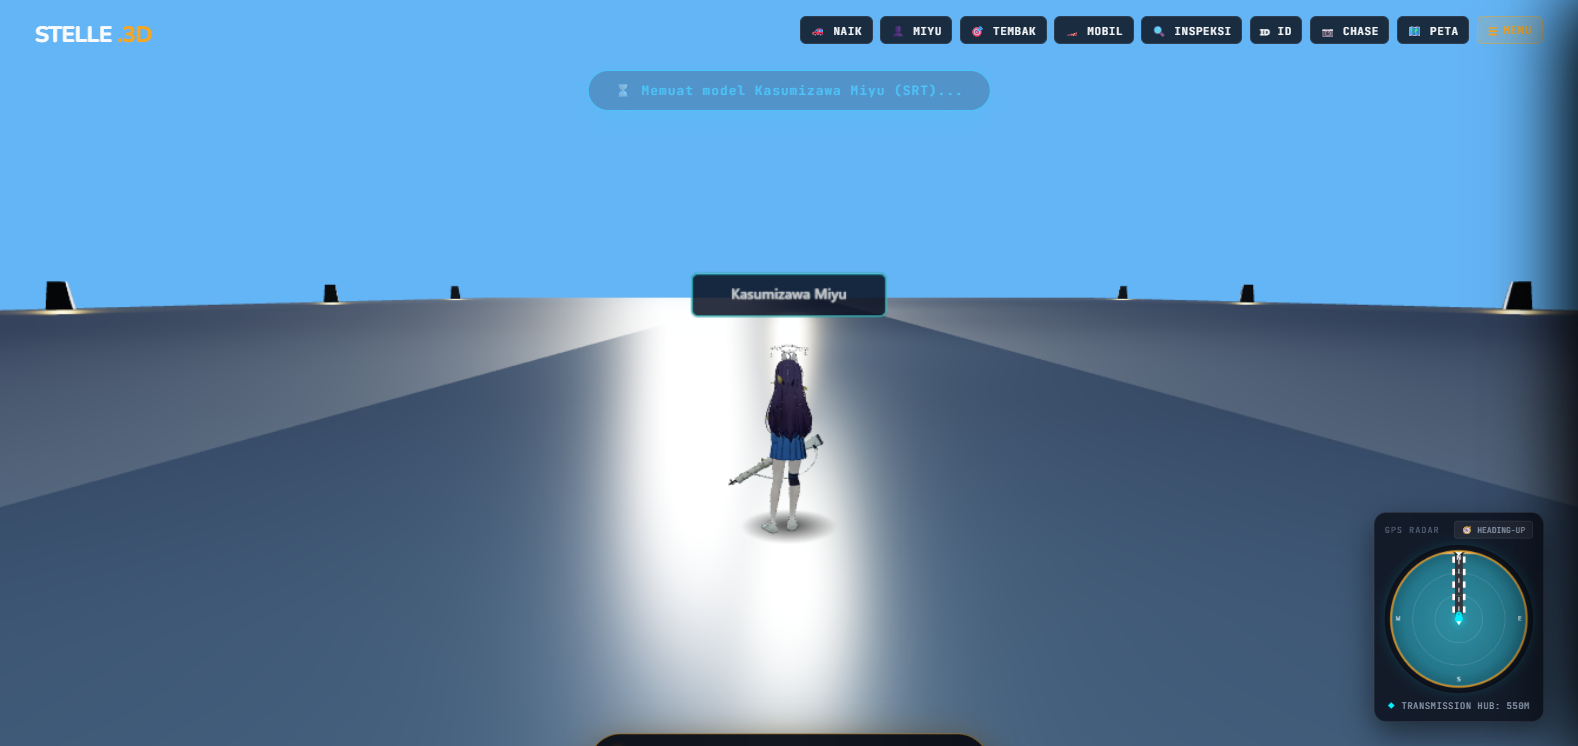
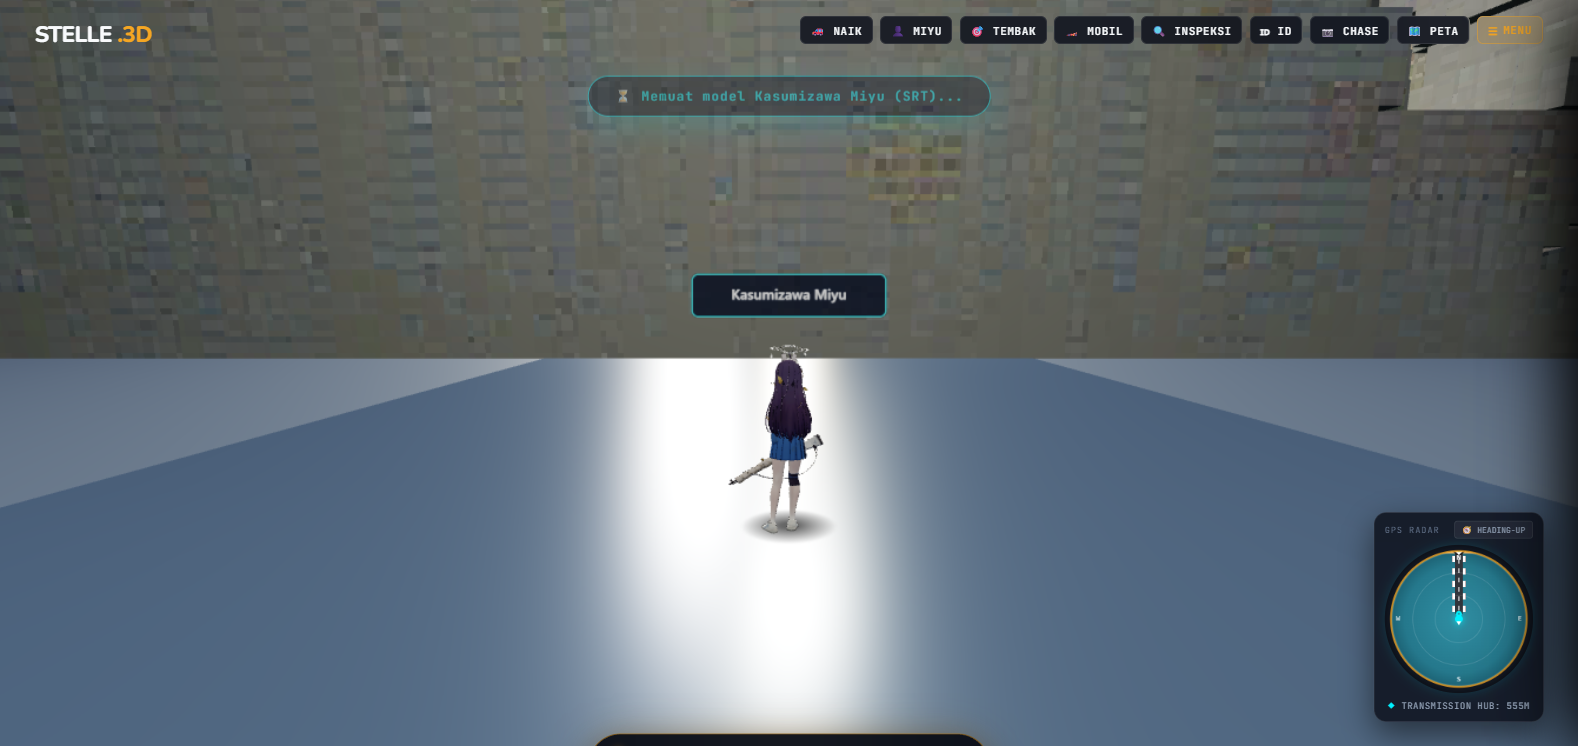
fix: gothic cathedral texture remapping, vaulted nave spawn, download progress, and instant teleport

diff --git a/assets/js/app/main.js b/assets/js/app/main.js
@@ -72,7 +72,7 @@
   let isFpsCounterVisible = false;
   let targetFpsLimit = 0;
   let lastFrameTime = 0;
-  const CHECKPOINT_STORAGE_KEY = "tokyo_cathedral_save_v2";
+  const CHECKPOINT_STORAGE_KEY = "tokyo_cathedral_save_v3";
   let isCharModalOpen = false;
   let fpsFrameCount = 0;
   let lastFpsTime = performance.now();
@@ -1325,7 +1325,7 @@
     }
     if (UI.optUnstuckBtn) {
       UI.optUnstuckBtn.addEventListener("click", () => {
-        physics.resetPosition(-6.0, 980, Math.PI);
+        physics.resetPosition(-6.0, 1000, Math.PI);
         handleVoidFall();
         closeSidebarHub();
       });
@@ -1470,10 +1470,47 @@
       panel.classList.toggle("active", panel.id === `tab-${tabName}`);
     });
   }
+  function teleportToCathedral() {
+    if (!physics) return;
+    physics.walkerX = 0;
+    physics.walkerY = 32.05;
+    physics.walkerZ = 1060;
+    physics.walkerRotation = 0;
+    walkerCameraYaw = 0;
+    cameraPitchOffset = 0;
+    physics.mode = "WALKING";
+    physics.speed = 0;
+    physics.walkerSpeed = 0;
+    physics.x = -6.0;
+    physics.y = 32.57;
+    physics.z = 1000;
+    physics.rotation = Math.PI;
+    if (world && world.walkerGroup) {
+      world.walkerGroup.position.set(0, 32.05, 1060);
+      world.walkerGroup.visible = true;
+    }
+    updateWalkBtnUI();
+    saveCheckpointState();
+    if (window.showGameToast) {
+      window.showGameToast("⛪ Berhasil Teleportasi ke Dalam Aula Katedral!", 2500);
+    }
+  }
+  window.teleportToCathedral = teleportToCathedral;
   function populateHubProjects() {
     if (!UI.hubProjectsList) return;
     const projects = window.APP_CONFIG.PROJECTS;
-    UI.hubProjectsList.innerHTML = projects.map(p => `
+    const cathedralItem = `
+      <div class="hub-project-item" style="display: flex; justify-content: space-between; align-items: center; padding: 0.95rem 1.15rem; background: rgba(245,166,35,0.08); border: 1px solid rgba(245,166,35,0.3); border-radius: 10px; margin-bottom: 0.75rem;">
+        <div>
+          <div style="font-family: var(--font-mono); font-size: 0.68rem; color: #f5a623; letter-spacing: 0.08em; text-transform: uppercase;">CELESTIAL SANCTUARY // SAVE POINT</div>
+          <strong style="font-size: 1.02rem; color: #ffffff; letter-spacing: -0.01em;">🏛 Grand Gothic Cathedral</strong>
+        </div>
+        <div>
+          <button id="hub-cathedral-teleport-btn" style="padding: 0.45rem 0.85rem; background: var(--neon-amber); color: #000; border: none; border-radius: 6px; font-weight: 700; font-size: 0.78rem; cursor: pointer; transition: all 0.2s;">⚡ TELEPORT</button>
+        </div>
+      </div>
+    `;
+    UI.hubProjectsList.innerHTML = cathedralItem + projects.map(p => `
       <div class="hub-project-item" style="display: flex; justify-content: space-between; align-items: center; padding: 0.95rem 1.15rem; background: rgba(255,255,255,0.035); border: 1px solid rgba(255,255,255,0.08); border-radius: 10px; margin-bottom: 0.75rem;">
         <div>
           <div style="font-family: var(--font-mono); font-size: 0.68rem; color: #${p.color.toString(16).padStart(6, '0')}; letter-spacing: 0.08em; text-transform: uppercase;">${p.district}</div>
@@ -1485,6 +1522,13 @@
         </div>
       </div>
     `).join("");
+    const cathBtn = document.getElementById("hub-cathedral-teleport-btn");
+    if (cathBtn) {
+      cathBtn.addEventListener("click", () => {
+        closeSidebarHub();
+        teleportToCathedral();
+      });
+    }
     UI.hubProjectsList.querySelectorAll(".hub-proj-teleport-btn").forEach(b => {
       b.addEventListener("click", () => {
         const id = b.getAttribute("data-id");
@@ -1879,7 +1923,7 @@
     if (audio) audio.playChime();
   }
   function resetVehicle() {
-    physics.resetPosition(-6.0, 980, Math.PI);
+    physics.resetPosition(-6.0, 1000, Math.PI);
     isCinematic = false;
     cinematicTarget = null;
     cameraYawOffset = 0;
@@ -2377,11 +2421,15 @@
   function loadCheckpointState() {
     try {
       const raw = localStorage.getItem(CHECKPOINT_STORAGE_KEY);
-      if (!raw) {
+      let data = null;
+      if (raw) {
+        try { data = JSON.parse(raw); } catch (e) {}
+      }
+      if (!data || typeof data.x !== "number" || (typeof data.z === "number" && data.z < 950)) {
         if (physics) {
           physics.walkerX = 0;
           physics.walkerY = 32.05;
-          physics.walkerZ = 1010;
+          physics.walkerZ = 1060;
           physics.walkerRotation = 0;
           walkerCameraYaw = 0;
           cameraPitchOffset = 0;
@@ -2390,14 +2438,12 @@
           physics.walkerSpeed = 0;
           physics.x = -6.0;
           physics.y = 32.57;
-          physics.z = 980;
+          physics.z = 1000;
           physics.rotation = Math.PI;
         }
         updateWalkBtnUI();
         return;
       }
-      const data = JSON.parse(raw);
-      if (!data || typeof data.x !== "number") return;
       if (data.carType && carModel && data.carType !== carModel.currentCarType) {
         changeCar(data.carType);
       }

diff --git a/assets/js/app/world.js b/assets/js/app/world.js
@@ -1809,6 +1809,9 @@ class TokyoCityWorld {
     const loader = new THREE.GLTFLoader();
     const modelUrl = "assets/models/cathedral.glb";
     console.log("Loading Grand Gothic Cathedral 3D model from:", modelUrl);
+    if (window.showGameToast) {
+      window.showGameToast("🏛 Mengunduh arsitektur 3D Katedral...", 3000);
+    }
     loader.load(
       modelUrl,
       (gltf) => {
@@ -1822,28 +1825,45 @@ class TokyoCityWorld {
             child.castShadow = true;
             child.receiveShadow = true;
             if (child.material) {
-              child.material.side = THREE.DoubleSide;
-              child.material.roughness = Math.max(0.35, child.material.roughness || 0.6);
+              const m = child.material;
+              if (m.emissiveMap && !m.map) {
+                m.map = m.emissiveMap;
+                m.emissiveMap = null;
+                m.emissive.setHex(0x1a1a24);
+                m.emissiveIntensity = 0.2;
+              }
+              m.color.setHex(0xd0d5dd);
+              m.side = THREE.DoubleSide;
+              m.roughness = 0.85;
+              m.metalness = 0.1;
+              m.needsUpdate = true;
             }
           }
         });
         this.scene.add(cathedral);
         this.cathedralModel = cathedral;
         console.log("Grand Gothic Cathedral 3D Model Loaded & Placed successfully at Celestial Sanctuary!");
-        const altarLight = new THREE.PointLight(0xffdf99, 2.8, 60);
-        altarLight.position.set(0, 38.0, 1075);
+        const altarLight = new THREE.PointLight(0xffdf99, 3.5, 75);
+        altarLight.position.set(0, 42.0, 1075);
         this.scene.add(altarLight);
-        const naveLight1 = new THREE.PointLight(0xffeaad, 1.8, 48);
-        naveLight1.position.set(0, 42.0, 1030);
+        const naveLight1 = new THREE.PointLight(0xffeaad, 2.5, 60);
+        naveLight1.position.set(0, 45.0, 1040);
         this.scene.add(naveLight1);
-        const naveLight2 = new THREE.PointLight(0xffeaad, 1.8, 48);
-        naveLight2.position.set(0, 42.0, 1005);
+        const naveLight2 = new THREE.PointLight(0xffeaad, 2.5, 60);
+        naveLight2.position.set(0, 45.0, 1010);
         this.scene.add(naveLight2);
         if (window.showGameToast) {
-          window.showGameToast("✨ Katedral Suci Celestial Berhasil Dimuat", 3000);
+          window.showGameToast("✨ Katedral Suci Celestial Berhasil Dimuat!", 3500);
         }
       },
-      undefined,
+      (xhr) => {
+        if (xhr && xhr.total > 0 && window.showGameToast) {
+          const pct = Math.round((xhr.loaded / xhr.total) * 100);
+          if (pct === 25 || pct === 50 || pct === 75) {
+            window.showGameToast(`🏛 Mengunduh Katedral 3D: ${pct}%...`, 1500);
+          }
+        }
+      },
       (err) => {
         console.warn("Cathedral GLB load error:", err);
       }

diff --git a/index.html b/index.html
@@ -982,14 +982,14 @@
   <script src="assets/js/data/vehicles/bugatti_model_data.js"></script>
   <script src="assets/js/data/characters/hero_model_data.js"></script>
   <script src="assets/js/data/environment/sky_textures.js"></script>
-  <script src="assets/js/app/config.js"></script>
-  <script src="assets/js/app/i18n.js"></script>
-  <script src="assets/js/app/shaders.js"></script>
-  <script src="assets/js/app/audio.js"></script>
-  <script src="assets/js/app/physics.js"></script>
-  <script src="assets/js/app/car.js"></script>
-  <script src="assets/js/app/world.js"></script>
-  <script src="assets/js/app/radar.js"></script>
-  <script src="assets/js/app/main.js"></script>
+  <script src="assets/js/app/config.js?v=cathedral_v3"></script>
+  <script src="assets/js/app/i18n.js?v=cathedral_v3"></script>
+  <script src="assets/js/app/shaders.js?v=cathedral_v3"></script>
+  <script src="assets/js/app/audio.js?v=cathedral_v3"></script>
+  <script src="assets/js/app/physics.js?v=cathedral_v3"></script>
+  <script src="assets/js/app/car.js?v=cathedral_v3"></script>
+  <script src="assets/js/app/world.js?v=cathedral_v3"></script>
+  <script src="assets/js/app/radar.js?v=cathedral_v3"></script>
+  <script src="assets/js/app/main.js?v=cathedral_v3"></script>
 </body>
 </html>

diff --git a/assets/js/app/physics.js b/assets/js/app/physics.js
@@ -9,7 +9,7 @@ class VehiclePhysicsEngine {
     this.mode = "WALKING";
     this.walkerX = 0;
     this.walkerY = 32.05;
-    this.walkerZ = 1010;
+    this.walkerZ = 1060;
     this.walkerRotation = 0;
     this.speed = 0;
     this.lateralVelocity = 0;
@@ -81,7 +81,7 @@ class VehiclePhysicsEngine {
     this.obstacles.push(obstacle);
     return obstacle;
   }
-  resetPosition(x = -5.0, z = 980, rotation = Math.PI) {
+  resetPosition(x = -6.0, z = 1000, rotation = Math.PI) {
     this.x = x;
     this.y = 32.57;
     this.z = z;
@@ -176,7 +176,7 @@ class VehiclePhysicsEngine {
       if (this.walkerY < -10.0) {
         if (window.soundEngine) window.soundEngine.playVoidFallSplash();
         this.walkerX = 0;
-        this.walkerZ = 1010;
+        this.walkerZ = 1060;
         this.walkerY = 32.05;
         this.walkerRotation = 0;
         this.walkerVerticalVel = 0;
@@ -575,7 +575,7 @@ class VehiclePhysicsEngine {
     if (window.soundEngine) {
       window.soundEngine.playVoidFallSplash();
     }
-    this.resetPosition(-5.0, 980, Math.PI);
+    this.resetPosition(-6.0, 1000, Math.PI);
     if (typeof this.onVoidFallCallback === "function") {
       this.onVoidFallCallback();
     }
